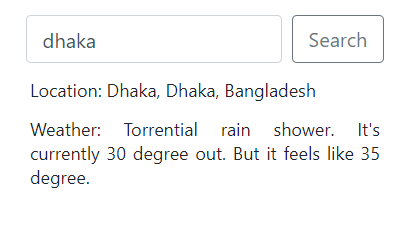
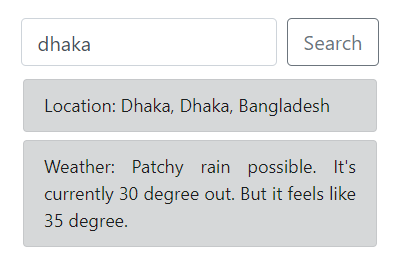
UI updated

diff --git a/public/js/app.js b/public/js/app.js
@@ -7,6 +7,10 @@ weatherForm.addEventListener("submit", (e) => {
   e.preventDefault();
 
   const location = searchElement.value;
+
+  msgOne.classList.remove("alert-danger");
+  msgTwo.classList.remove("alert-dark");
+  msgOne.classList.add("alert-secondary");
   msgOne.textContent = "Searching.....";
   msgTwo.textContent = "";
 
@@ -15,12 +19,17 @@ weatherForm.addEventListener("submit", (e) => {
   fetch(weatherAPIURL).then((response) => {
     response.json().then((data) => {
       if (data.error) {
-        msgOne.classList.add("alert");
+        msgOne.classList.remove("alert-dark");
         msgOne.classList.add("alert-danger");
+
         msgOne.textContent = data.error;
       } else {
-        msgOne.classList.remove("alert");
         msgOne.classList.remove("alert-danger");
+        msgOne.classList.remove("alert-secondary");
+
+        msgOne.classList.add("alert-dark");
+        msgTwo.classList.add("alert-dark");
+
         msgOne.textContent = `Location: ${data.locationName}`;
         msgTwo.textContent = `Weather: ${data.forecast}`;
       }

diff --git a/src/utils/forecast.js b/src/utils/forecast.js
@@ -3,14 +3,7 @@ const apiKey = require("./forecastKey"); //You can add your API key here
 
 // WeatherStack API to fetch weather data by giving geo coordinate
 const forecast = (latitude, longitude, callback) => {
-  const url =
-    "http://api.weatherstack.com/current?access_key=" +
-    apiKey +
-    "=" +
-    latitude +
-    "," +
-    longitude +
-    "&units=m";
+  const url = `http://api.weatherstack.com/current?access_key=${apiKey}&query=${latitude},${longitude}&units=m`;
 
   // Using destruction function
   request({ url, json: true }, (error, { body }) => {

diff --git a/src/utils/geocode.js b/src/utils/geocode.js
@@ -3,12 +3,9 @@ const apiKey = require("./geoKey"); //You can add your API key here
 
 // Mapbox API to fetch geo coordinate by giving location
 const geocode = (address, callback) => {
-  const url =
-    "https://api.mapbox.com/geocoding/v5/mapbox.places/" +
-    encodeURIComponent(address) +
-    ".json?access_token=" +
-    apiKey +
-    "&limit=1";
+  const url = `https://api.mapbox.com/geocoding/v5/mapbox.places/${encodeURIComponent(
+    address
+  )}.json?access_token=${apiKey}&limit=1`;
 
   request({ url, json: true }, (error, { body }) => {
     if (error)

diff --git a/public/css/styles.css b/public/css/styles.css
@@ -27,10 +27,14 @@ button {
   margin: 5px;
 }
 
-p {
+.msgOne {
+  font-size: large;
+  text-align: start;
+  margin: 8px;
+}
+
+.msgTwo {
   font-size: large;
   text-align: justify;
-  margin: 5px;
-  padding: 5px;
-  line-height: normal;
+  margin: 8px;
 }

diff --git a/README.md b/README.md
@@ -24,7 +24,7 @@ Then, passing Geo Coordinates into "WeatherStack API" and then finally it return
 
 <img src="public/img/forecast1.png" alt="Location searching" width="" height="">
 
-### Specific location for deeper search
+### Didn't find your location? Try to add more string to the search
 
 <img src="public/img/forecast2.png" alt="specific search" width="" height="">
 
